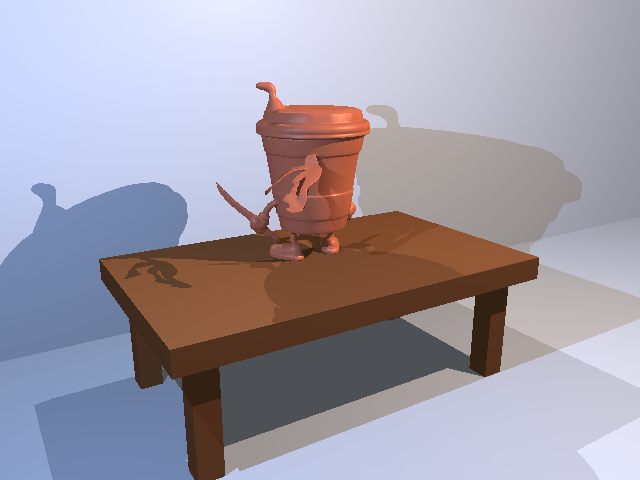
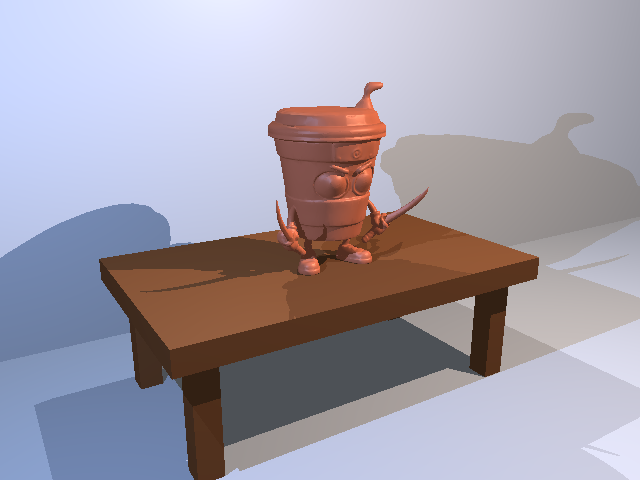
Turn capuchino toward camera

diff --git a/src/scene.rs b/src/scene.rs
@@ -145,10 +145,13 @@ impl Scene {
         let scale = STUDIO_SUBJECT_HEIGHT / (maximum.y - minimum.y);
         for vertex in &mut model.vertices {
             *vertex = Vec3::new(
-                (vertex.x - center.x) * scale,
+                -(vertex.x - center.x) * scale,
                 (vertex.y - minimum.y) * scale + TABLE_TOP_Y,
-                (vertex.z - center.z) * scale,
+                -(vertex.z - center.z) * scale,
             );
+        }
+        for normal in &mut model.normals {
+            *normal = Vec3::new(-normal.x, normal.y, -normal.z);
         }
         model.update_bounds();
 

diff --git a/README.md b/README.md
@@ -176,7 +176,7 @@ computer):
 | --- | ---: | ---: |
 | Hard pyramid | 640 × 480 | `00h 00m 00.043s` |
 | Smooth pyramid | 640 × 480 | `00h 00m 00.072s` |
-| Capuchino OBJ | 640 × 480 | `00h 00m 46.719s` |
+| Capuchino OBJ | 640 × 480 | `00h 00m 44.356s` |
 | Vase front | 640 × 480 | `00h 00m 46.292s` |
 | Vase left | 640 × 480 | `00h 00m 37.576s` |
 | Vase right | 640 × 480 | `00h 00m 44.741s` |
